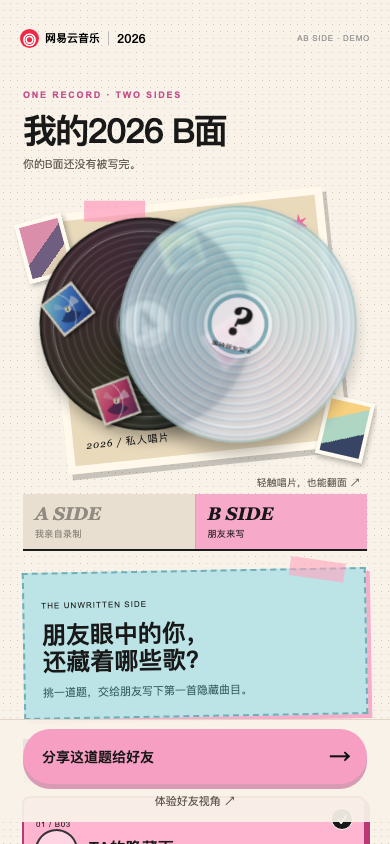
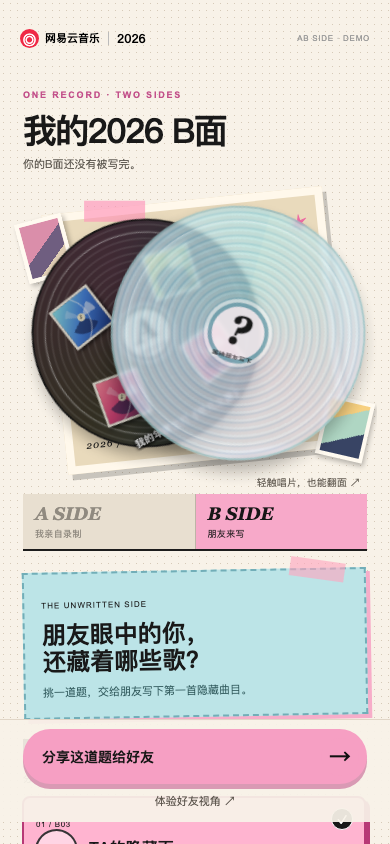
Show friend songs directly on B-side record

Changed region(s): [[0.0615, 0.2464, 0.9538, 0.5853], [0.8, 0.2773, 0.8615, 0.3081], [0.7692, 0.2464, 0.8, 0.2773]]

diff --git a/src/styles.css b/src/styles.css
@@ -31,3 +31,10 @@
 .guest-result-screen{background:#f8f2e8;color:#181818;background-image:radial-gradient(#dfd2c2 0.6px,transparent .6px);background-size:7px 7px}.guest-result-screen .brand-name{color:#171717}.guest-result-screen .brand-series{color:#8d8580}.guest-result-top{padding-top:19px}.guest-result-top .eyebrow{color:#c14989}.guest-result-top h1{font-size:29px}.solo-record{width:220px;margin-top:15px;margin-bottom:26px;transform:rotate(-8deg)}.solo-record .mini-record{width:220px;background:transparent;box-shadow:none;color:#111}.solo-record .mini-disc{width:220px;box-shadow:0 13px 19px #0006}.solo-record .mini-disc:before{opacity:.95}.solo-record .mini-center{inset:30%;border:5px solid #f9f1dc;background:#f9d2e1}.solo-record .paper-tape{position:absolute;width:64px;height:18px;background:#8ad1e09c;top:-9px;left:3px;transform:rotate(-17deg);z-index:4}.solo-stamp{right:-61px;bottom:-6px;background:#ff8eb9;box-shadow:2px 3px #181818;transform:rotate(13deg);font-size:11px}.guest-result-copy{background:#fff9ef;margin:0 23px;padding:12px 13px 16px;transform:rotate(1deg);box-shadow:4px 5px #b8dfe2}.guest-result-copy>span{color:#b95086}.guest-result-copy h2{margin:7px 0 1px}.guest-result-copy p{color:#676158}.guest-result-copy blockquote{border-color:#ff8fbc}.guest-result-copy small{color:#857b72}.guest-contrast{font-size:12px;line-height:1.5;background:#ffe1ed;padding:10px;margin:8px 0 13px}.guest-result-actions{padding-top:28px}.guest-result-actions>div button{border-color:#6e6760;color:#171717;background:#fff9ef}.guest-result-screen .demo-note{color:#8d837a}.share-sheet{background:#f8f2e8}.share-question-preview{background:#ffc2d9;padding:14px;border:2px solid #c05b8e;box-shadow:3px 3px #7e8295}.share-question-preview span{display:block;font:9px Arial;letter-spacing:.08em;margin-bottom:6px}.share-question-preview b{display:block;font-size:15px;line-height:1.45}.share-sheet .share-demo{border-bottom:1px dashed #aaa;margin:9px 0 4px;padding:8px}
 @media(max-width:700px){.album-stage{margin-left:13px;margin-right:13px}.album-result-screen .brand{padding-top:max(20px,env(safe-area-inset-top))}}@media(max-width:375px){.album-a-record,.album-b-record{width:208px;height:208px;left:calc(50% - 104px)}.album-stage{height:274px}.album-header h1{font-size:32px}.solo-stamp{right:-51px}}@media(prefers-reduced-motion:reduce){.album-a-record,.album-b-record{transition:none!important}}
 .album-cta.sticky-share{position:sticky;bottom:0;z-index:9;background:#f8f2e8ed;border-top:1px solid #e1d6c7;padding-top:9px;padding-bottom:max(12px,env(safe-area-inset-bottom))}.album-cta.sticky-share .text-link{margin-top:8px}
+/* Host result only: readable A-side annotations and songs collected on the B record. */
+.album-a-record .record-cover{width:54px;height:54px}.album-a-record .record-cover .cover{width:48px;height:48px}.album-a-songline{position:absolute;z-index:6;left:22px;right:22px;bottom:8px;overflow:hidden;text-overflow:ellipsis;white-space:nowrap;text-align:center;color:#fff;font-size:10px;font-weight:800;letter-spacing:.03em;text-shadow:0 1px 3px #000,0 2px 5px #000}
+.album-stage.show-b.has-friends{margin-left:5px;margin-right:5px}.album-stage.show-b.has-friends .album-a-record{transform:translateX(-62px) rotate(-11deg) scale(.95);filter:none}.album-stage.show-b.has-friends .album-b-record{transform:translateX(62px) rotate(9deg) scale(1);background:repeating-radial-gradient(circle,#e8d2e1 0 2px,#ccaac7 3px 4px,#e7d3e7 5px 8px);opacity:.96}.album-stage.show-b.has-friends .album-b-label{opacity:.22}
+.b-face-contributions{position:absolute;z-index:8;right:16px;top:47px;width:205px;height:193px;display:grid;grid-template-columns:repeat(2,minmax(0,1fr));grid-auto-rows:60px;gap:4px;align-content:center;padding:1px 12px;overflow-y:auto;scrollbar-width:none}.b-face-contributions::-webkit-scrollbar{display:none}.b-face-entry{min-width:0;border:0;background:transparent;color:#19151e;display:flex;flex-direction:column;align-items:center;justify-content:center;padding:1px;line-height:1.1;text-shadow:0 1px #fffd}.b-face-entry:focus-visible{outline:2px solid #e14683;border-radius:5px}.b-face-entry:active{transform:scale(.94)}.b-face-entry b,.b-face-entry small{max-width:100%;white-space:nowrap;overflow:hidden;text-overflow:ellipsis}.b-face-entry b{font-size:9px;margin-top:3px}.b-face-entry small{font-size:7px;color:#63566a;margin-top:1px}.b-face-mini-disc{width:42px;height:42px;flex:none;position:relative;display:grid;place-items:center;border:2px solid #e9e6e3;border-radius:50%;background:repeating-radial-gradient(circle,#513a62 0 2px,#6e4b75 3px 4px);box-shadow:0 2px 5px #4e314a8c}.b-face-mini-disc:before{content:"";position:absolute;inset:0;border-radius:50%;background:conic-gradient(#ed86bb88,#8acde088,#e3c77a88,#ec8ab988);mix-blend-mode:screen}.b-face-entry:nth-child(2n) .b-face-mini-disc:before{background:conic-gradient(#7de2dfaa,#799ae6aa,#f8b5d5aa,#7de2dfaa)}.b-face-entry:nth-child(3n) .b-face-mini-disc:before{background:conic-gradient(#f3bd65aa,#ee80a9aa,#a6d3c7aa,#f3bd65aa)}.b-face-mini-disc .cover{width:38%;height:38%;border:1px solid #fff8f1;border-radius:50%;z-index:2;box-shadow:0 0 0 1px #2a1a38}.b-face-mini-disc .cover span{font-size:3px}
+.b-face-contributions.count-1{display:flex;align-items:center;justify-content:center}.count-1 .b-face-entry{width:150px}.count-1 .b-face-mini-disc{width:91px;height:91px}.count-1 .b-face-entry b{font-size:15px;margin-top:8px}.count-1 .b-face-entry small{font-size:10px}.b-face-contributions.count-2,.b-face-contributions.count-3{grid-auto-rows:76px}.b-face-contributions.count-2 .b-face-mini-disc,.b-face-contributions.count-3 .b-face-mini-disc{width:58px;height:58px}.b-face-contributions.count-3 .b-face-entry:first-child{grid-column:1/-1;justify-self:center;width:100px}.b-face-contributions.count-3 .b-face-entry:nth-child(3){transform:translateY(-4px)}.b-side-summary{margin:18px 23px 14px;padding:13px 16px;background:#fff8ef;border-left:4px solid #e588af;box-shadow:3px 4px #d7c7cd}.b-side-summary span{display:block;color:#be608c;font:8px Arial;letter-spacing:.15em}.b-side-summary h2{font-size:17px;line-height:1.3;margin:6px 0 4px}.b-side-summary p{font-size:10px;color:#776d73;line-height:1.4;margin:0}
+@media(max-width:375px){.album-a-record .record-cover{width:49px;height:49px}.album-a-record .record-cover .cover{width:43px;height:43px}.album-a-songline{font-size:9px;left:15px;right:15px}.album-stage.show-b.has-friends .album-a-record{transform:translateX(-57px) rotate(-11deg) scale(.95)}.album-stage.show-b.has-friends .album-b-record{transform:translateX(54px) rotate(9deg) scale(1)}.b-face-contributions{right:13px;top:33px;width:183px;height:174px;grid-auto-rows:52px;gap:3px;padding:1px 9px}.b-face-mini-disc{width:36px;height:36px}.count-1 .b-face-mini-disc{width:76px;height:76px}.b-face-contributions.count-2,.b-face-contributions.count-3{grid-auto-rows:68px}.b-face-contributions.count-2 .b-face-mini-disc,.b-face-contributions.count-3 .b-face-mini-disc{width:49px;height:49px}}
+@media(min-width:376px){.album-stage .album-a-record,.album-stage .album-b-record{width:260px;height:260px;left:calc(50% - 130px)}.album-stage.show-a .album-b-record{--b-slide-x:63px}.album-a-record .cover-position-0{left:44px;top:52px}.album-a-record .cover-position-1{right:44px;top:52px}.album-a-record .cover-position-2{left:44px;bottom:48px}.album-a-record .cover-position-3{right:44px;bottom:48px}.album-a-songline{font-size:11px;bottom:12px}}

diff --git a/src/App.tsx b/src/App.tsx
@@ -93,11 +93,6 @@ function MiniRecord({ contribution, onClick, large = false }: { contribution: Co
     <span className="mini-caption"><b>{song.title}</b><small>{contribution.friendName}</small></span>
   </button>
 }
-function CollectionWall({ contributions, open }: { contributions:Contribution[]; open:(item:Contribution)=>void }) {
-  return <div className={'wall-frame ' + (contributions.length === 1 ? 'wall-single' : contributions.length <= 3 ? 'wall-few' : 'wall-many')}><div className="wall-inner"><div className="wall-masthead"><span>THE B SIDE ARCHIVE</span><b>朋友写下的另一面</b><small>{String(contributions.length).padStart(2,'0')} RECORDS</small></div>
-    <div className="wall-grid">{contributions.map(item=><MiniRecord key={item.id} contribution={item} onClick={()=>open(item)} />)}</div>
-  </div></div>
-}
 function BQuestionPicker({ slots, selected, choose, expanded, toggle }: {
   slots:ASelection[]; selected:BId; choose:(id:BId)=>void; expanded:boolean; toggle:()=>void
 }) {
@@ -124,6 +119,8 @@ function HostResult({ slots, contributions, side, flip, invite, guestView, open,
   setDemoCount:(count:number|null)=>void; reviewCount:number|null; actualCount:number; selectedB:BId; chooseB:(id:BId)=>void; expanded:boolean; toggleExpanded:()=>void
 }) {
   const empty=contributions.length===0
+  const spotlight=slots.find(item=>item.questionId==='A02')??slots[0]
+  const spotlightSong=songById(spotlight.songId)
   return <main className="screen album-result-screen scrollable">
     <Brand onHome={home}/>
     <div className="album-header"><span className="eyebrow">ONE RECORD · TWO SIDES</span>
@@ -135,17 +132,23 @@ function HostResult({ slots, contributions, side, flip, invite, guestView, open,
       <button className="album-stack" onClick={()=>flip(side==='A'?'B':'A')} aria-label="翻转查看唱片另一面">
         <span className="album-a-record"><span className="record-ring"></span><span className="album-a-label">A<small>我的2026</small></span>
           {slots.map((item,index)=>{const song=songById(item.songId);return song?<span className={'record-cover cover-position-'+index} key={item.questionId}><Cover song={song} small/></span>:null})}
+          {spotlightSong&&<span className="album-a-songline">{spotlight.questionId==='A02'?'我的年度最爱':'我的年度主打'}《{spotlightSong.title}》</span>}
         </span>
         <span className="album-b-record"><span className="record-ring"></span><span className="album-b-label">{empty?'?':'B'}<small>{empty?'等待朋友写下':'好友眼中的我'}</small></span>{empty&&<span className="b-visible-question" aria-hidden="true"><b>?</b><small>B面待补全</small></span>}</span>
       </button>
-      <span className="stage-hint">轻触唱片，也能翻面 ↗</span>
+      {side==='B'&&!empty&&<div className={'b-face-contributions count-'+Math.min(contributions.length,6)} aria-label="好友写在B面上的歌曲">
+        {contributions.map(item=>{const song=songById(item.songId);return song?<button key={item.id} className="b-face-entry" onClick={()=>open(item)} aria-label={'查看'+item.friendName+'为B面选择的'+song.title}>
+          <span className="b-face-mini-disc"><Cover song={song} small/></span><b>{song.title}</b><small>{item.friendName}</small>
+        </button>:null})}
+      </div>}
+      <span className="stage-hint">{side==='B'&&!empty?'轻触好友歌曲，打开详情 ↗':'轻触唱片，也能翻面 ↗'}</span>
     </div>
     <div className="album-tabs"><button className={side==='A'?'active':''} onClick={()=>flip('A')}>A SIDE <small>我亲自录制</small></button><button className={side==='B'?'active':''} onClick={()=>flip('B')}>B SIDE <small>朋友来写</small></button></div>
     {side==='A'?<><div className="album-cta"><Button onClick={()=>flip('B')}>翻转查看B面</Button></div><section className="album-tracklist"><div className="section-title"><span>THE FOUR TRACKS</span><b>我的四首年度注脚</b></div>
       {slots.map((item,index)=>{const song=songById(item.songId);return <div className="track-row" key={item.questionId}><span>{String(index+1).padStart(2,'0')}</span>{song&&<Cover song={song} small/>}<div><small>{aById(item.questionId).title}</small><b>{song?.title??'待选歌曲'}</b><em>{song?.artist??''}</em></div></div>})}
       <p>4首歌曲，组成我的年度主打。</p></section></>:
       <>{empty?<section className="unknown-note"><span>THE UNWRITTEN SIDE</span><h2>朋友眼中的你，<br/>还藏着哪些歌？</h2><p>挑一道题，交给朋友写下第一首隐藏曲目。</p></section>:
-        <section className="b-collection"><div className="section-title"><span>THE B SIDE ARCHIVE</span><b>{contributions.length} 位好友，为你收藏另一面</b></div><CollectionWall contributions={contributions} open={open}/><p className="wall-tip">轻触小黑胶，打开朋友留下的歌。</p></section>}
+        <section className="b-side-summary"><span>FRIENDS ON THE B SIDE</span><h2>{contributions.length} 位好友，写下了你的另一面</h2><p>每首歌都已收进B面唱片，轻触唱片上的小圆盘即可查看。</p></section>}
         <BQuestionPicker slots={slots} selected={selectedB} choose={chooseB} expanded={expanded} toggle={toggleExpanded}/>
         <div className="album-cta sticky-share"><Button onClick={invite}>{empty?'分享这道题给好友':'继续邀请好友，发现更多B面'}</Button><button className="text-link" onClick={guestView}>体验好友视角 ↗</button></div>
       </>}
@@ -334,7 +337,7 @@ export default function App() {
     {label:'06 B面切换题目',action:()=>{demo('host-result');setResultSide('B');setSelectedB('B04')}},
     {label:'07 B面 · 1位好友',action:()=>demo('host-result',1)},
     {label:'08 B面 · 3位好友',action:()=>demo('host-result',3)},
-    {label:'09 多好友收藏墙',action:()=>demo('host-result',6)},
+    {label:'09 多好友B面',action:()=>demo('host-result',6)},
     {label:'10 好友直接选歌',action:()=>demo('guest-song')},
     {label:'11 好友贡献结果',action:()=>demo('guest-result',1)},
     {label:'12 A/B反复翻面',action:()=>{demo('host-result',3);setResultSide('A')}},

diff --git a/README.md b/README.md
@@ -1,6 +1,6 @@
 # 我的2026 AB面 · V3.0 交互原型
 
-用于产品 Mentor 评审的 React + TypeScript + Vite 静态 Demo。主态选四首歌录制 A 面，翻面后选一道 B 面问题分享；好友打开链接直接选一首歌，得到独立迷你唱片。主态可切换 0、1、3、6 位模拟好友，查看逐渐丰富的收藏墙。所有歌曲推荐、听歌行为、好友记录和艺人内容均为演示素材，不连接网易云音乐接口。
+用于产品 Mentor 评审的 React + TypeScript + Vite 静态 Demo。主态选四首歌录制 A 面，翻面后选一道 B 面问题分享；好友打开链接直接选一首歌，得到独立迷你唱片。主态可切换 0、1、3、6 位模拟好友，好友歌曲直接呈现在 B 面唱片上。所有歌曲推荐、听歌行为、好友记录和艺人内容均为演示素材，不连接网易云音乐接口。
 
 线上预览：<https://cecilia-huu.github.io/netease-2026-ab-side/>
 
